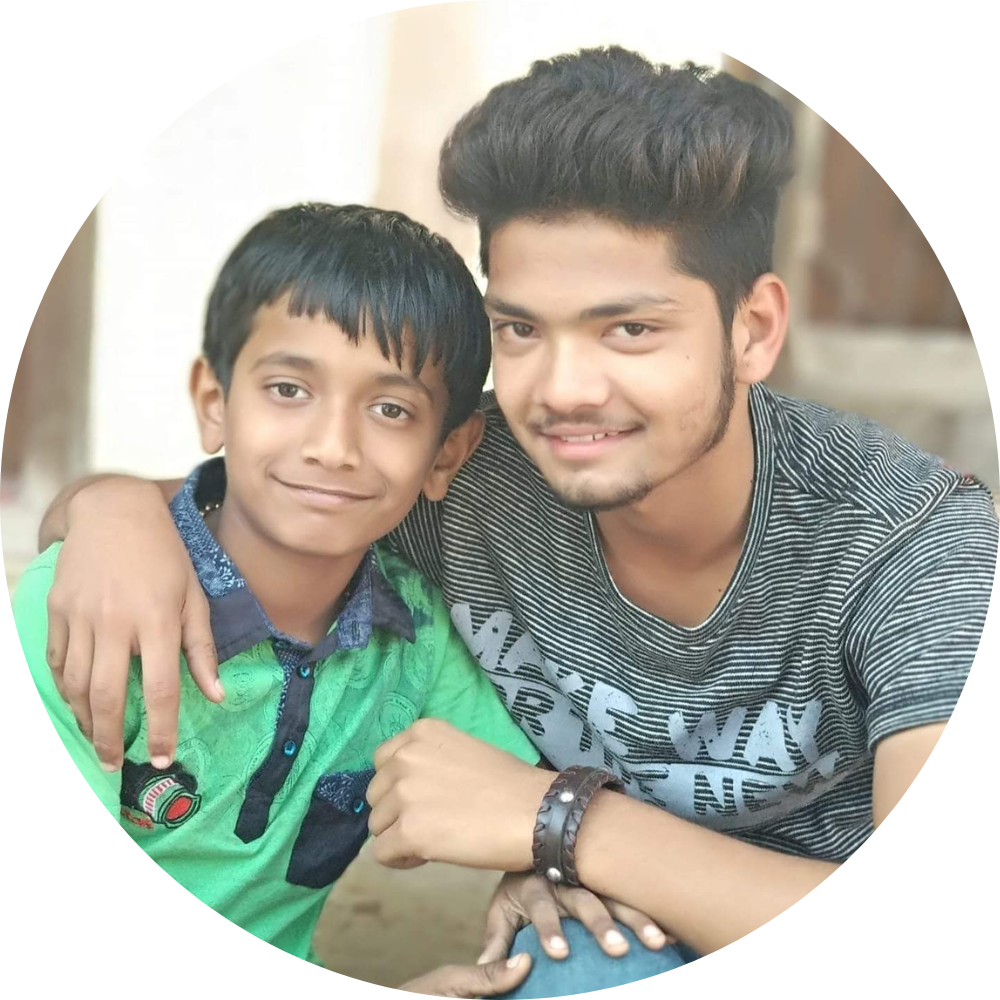
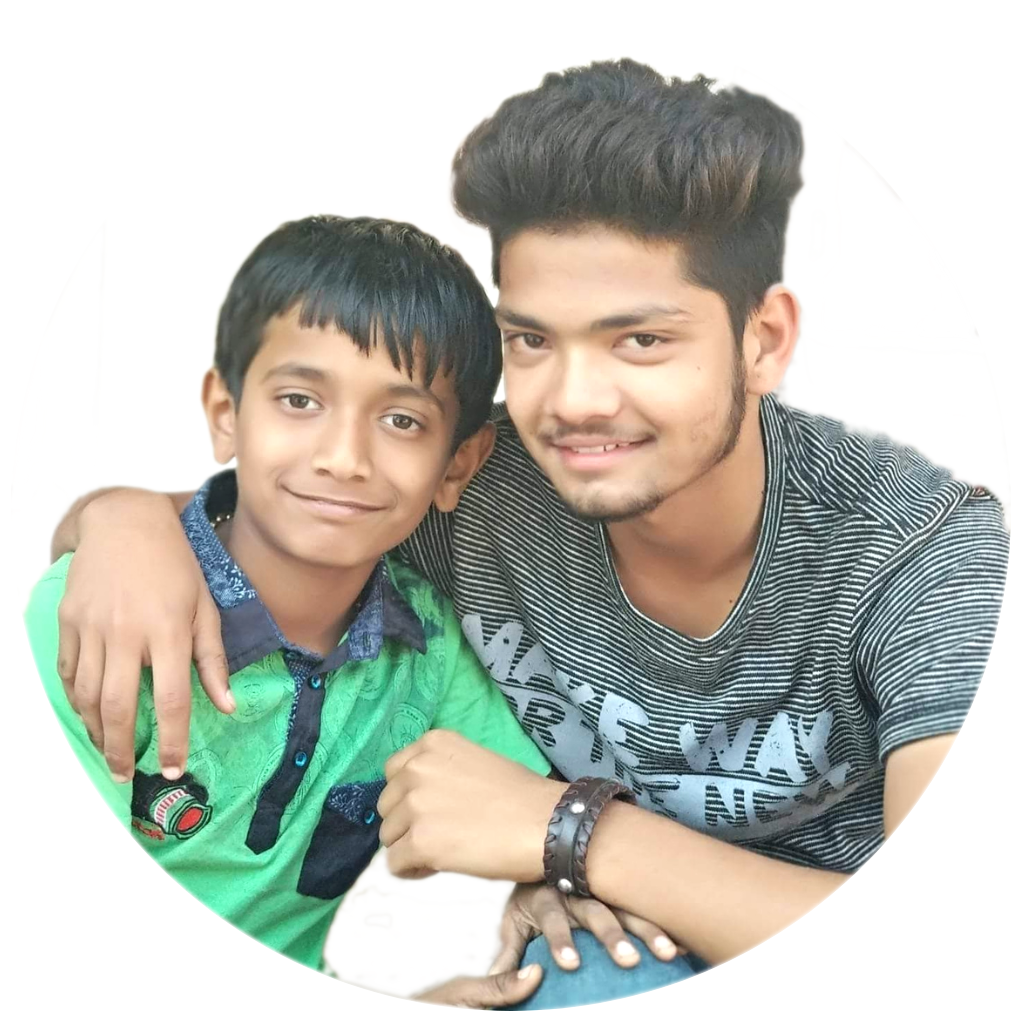
add profile image

diff --git a/styles/style.css b/styles/style.css
@@ -1,6 +1,6 @@
 .top{
 
-    background-color: #2e9a9a;
+    background-color: #18122B;
 
 width: 100%px;
 position:relative;
@@ -74,37 +74,14 @@ span{
 
 }
 .clear{
-    display: inline;}
+    display: inline;
+};
 
-
-/*
-.red{
-    width: 100px;
-    height: 100px;
-    background-color: red;
-    position: absolute;
-    left: 200px;
-    top: 200px;
-    
+.profile{
+border-radius: 100%;
 }
-.blue{
-    width: 100px;
-    height: 100px;
-background-color: blue;
-position: absolute;
-left: 100px;
-top: 100px;
-
-
+.profile{
+    background-color: #18122B;
 
 }
-.yellow{
-    width: 100px;
-    height: 100px;
-    background-color: yellow;
-    
-}
-body{
-    margin: 0;
 
-}

diff --git a/index.html b/index.html
@@ -28,8 +28,9 @@
         <img
           src="images/dhiraj.png"
           alt="dhiraj-image"
-          height="200px"
-          width="200px"
+          height="250"
+          width="auto"
+          class="profile__image"
         />
         <h2>Hello.</h2>
         <p>
